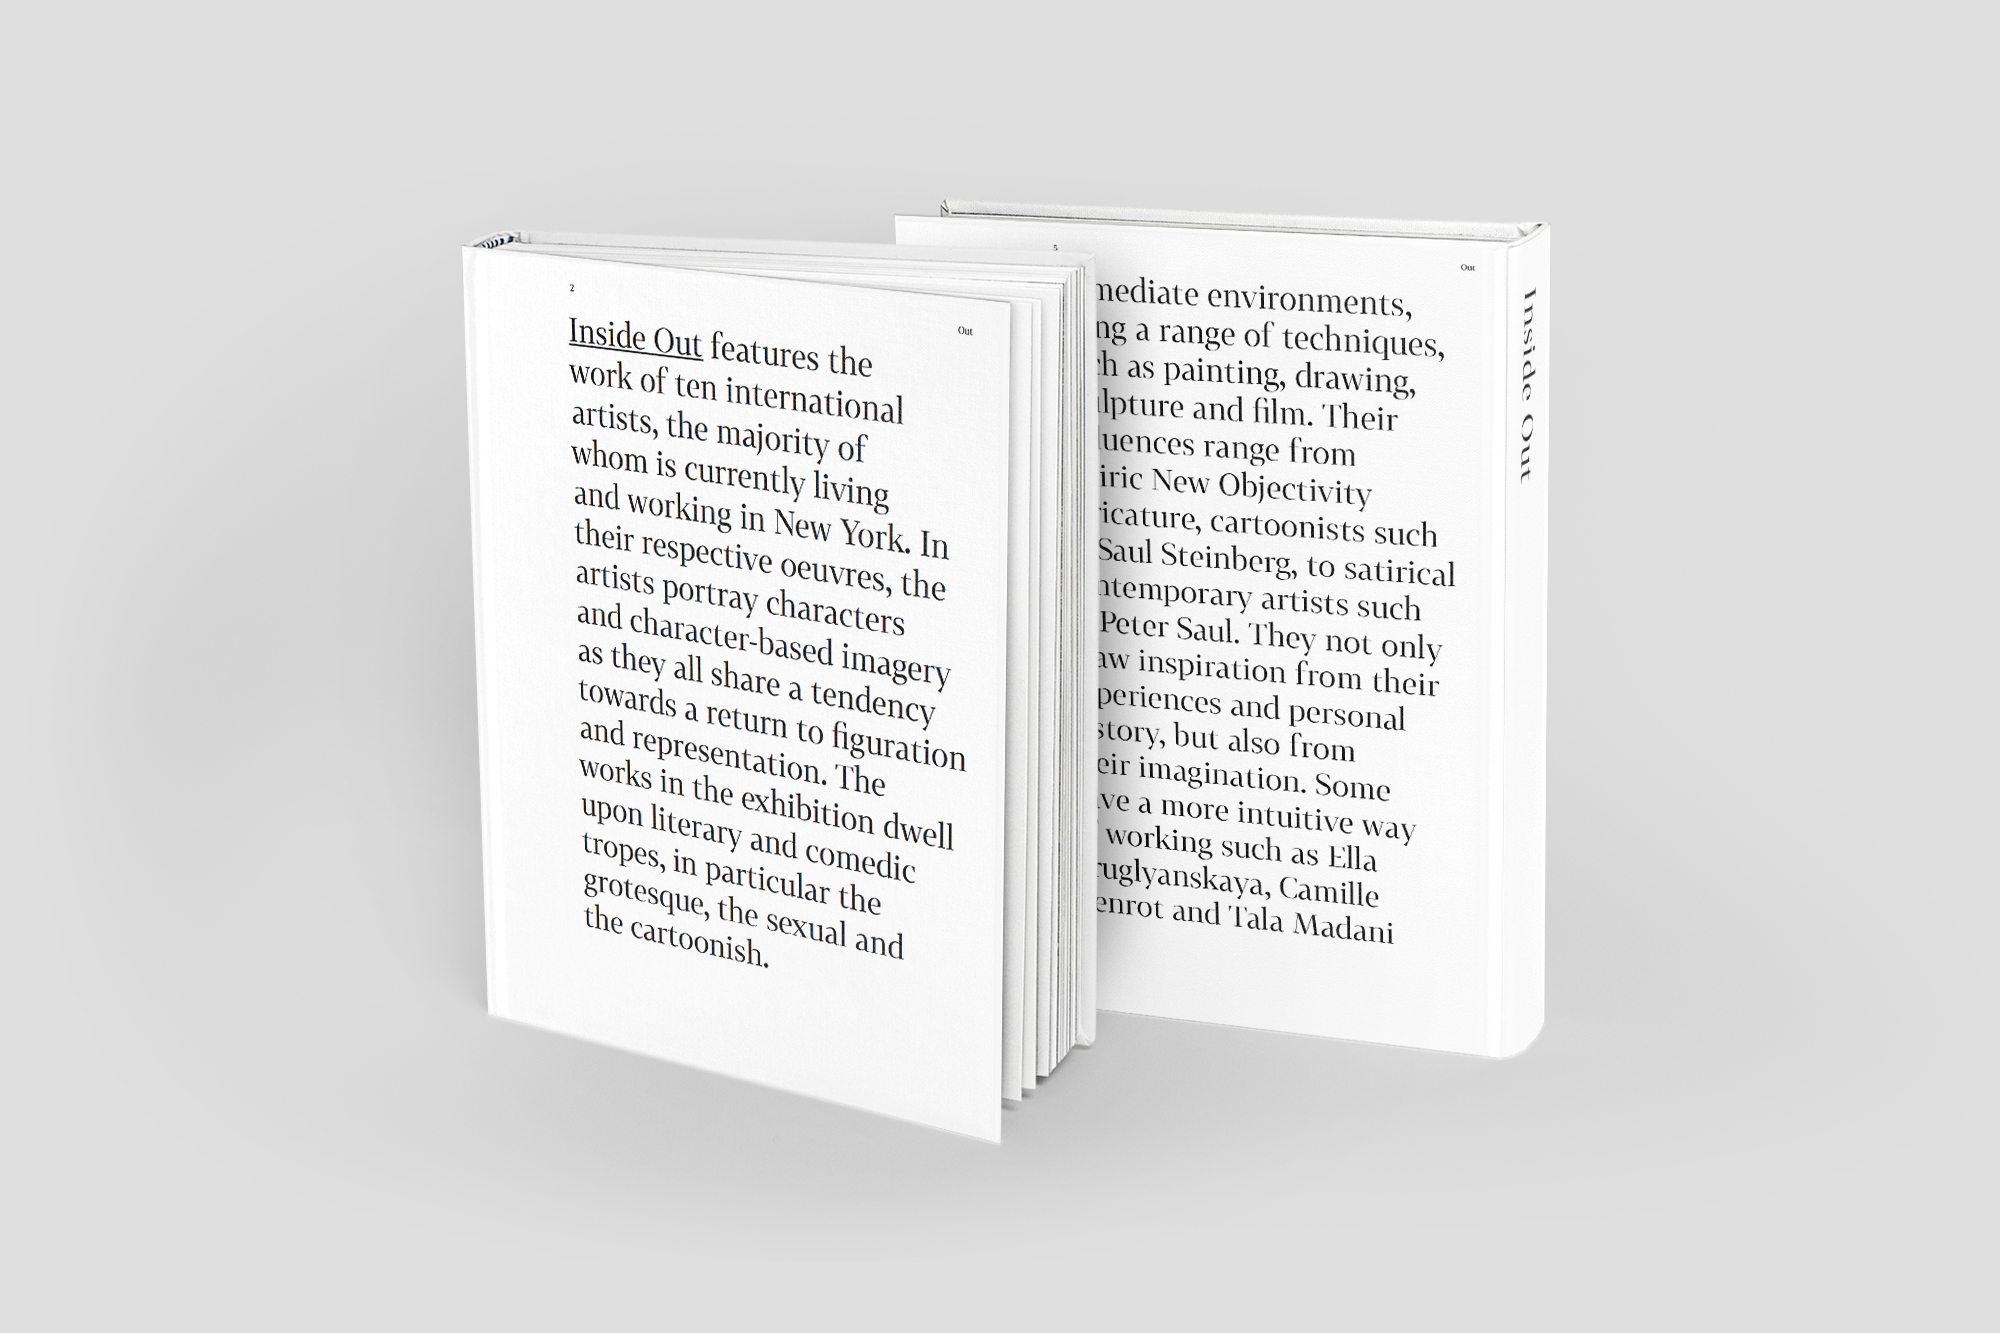
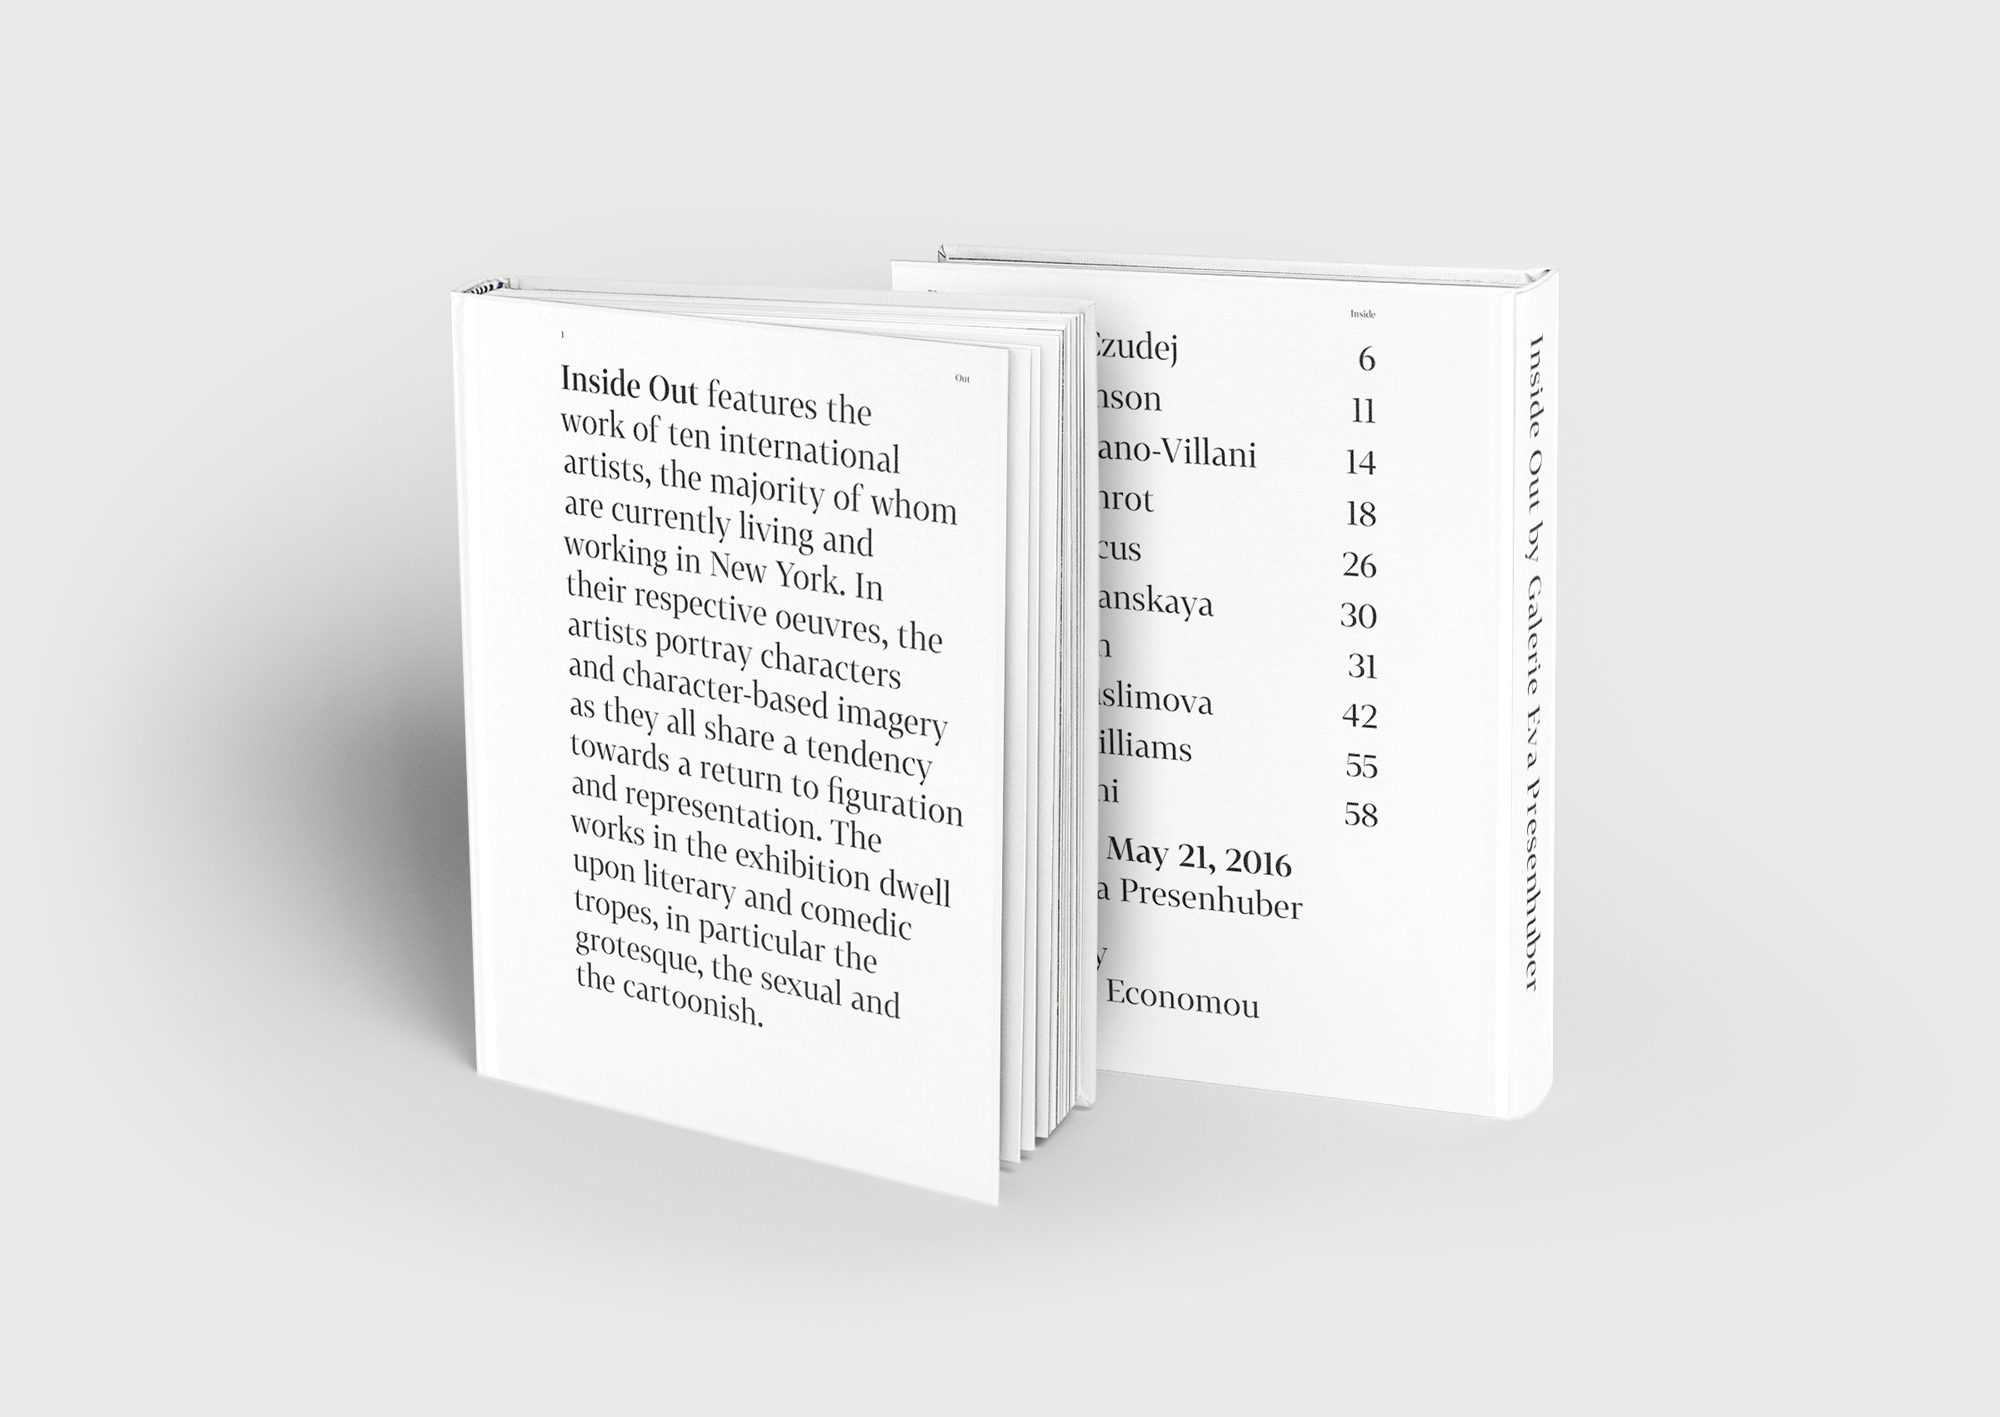
d

Changed region(s): [[0.279, 0.1538, 0.713, 0.8305], [0.124, 0.1538, 0.403, 0.7689], [0.744, 0.1845, 0.806, 0.7074]]

diff --git a/pages/eva/eva.html b/pages/eva/eva.html
@@ -39,6 +39,11 @@
     <div class="img_wrap">
         <div class="img_box">
             <img src="img/Hardcover-Book-MockUp1.jpg"><br>
+            <img src="img/book.jpg"><br>
+            <img src="img/book3.jpg"><br>
+            <img src="img/book4.jpg"><br>
+            <img src="img/book5.jpg"><br>
+            
         </div>
     
     
